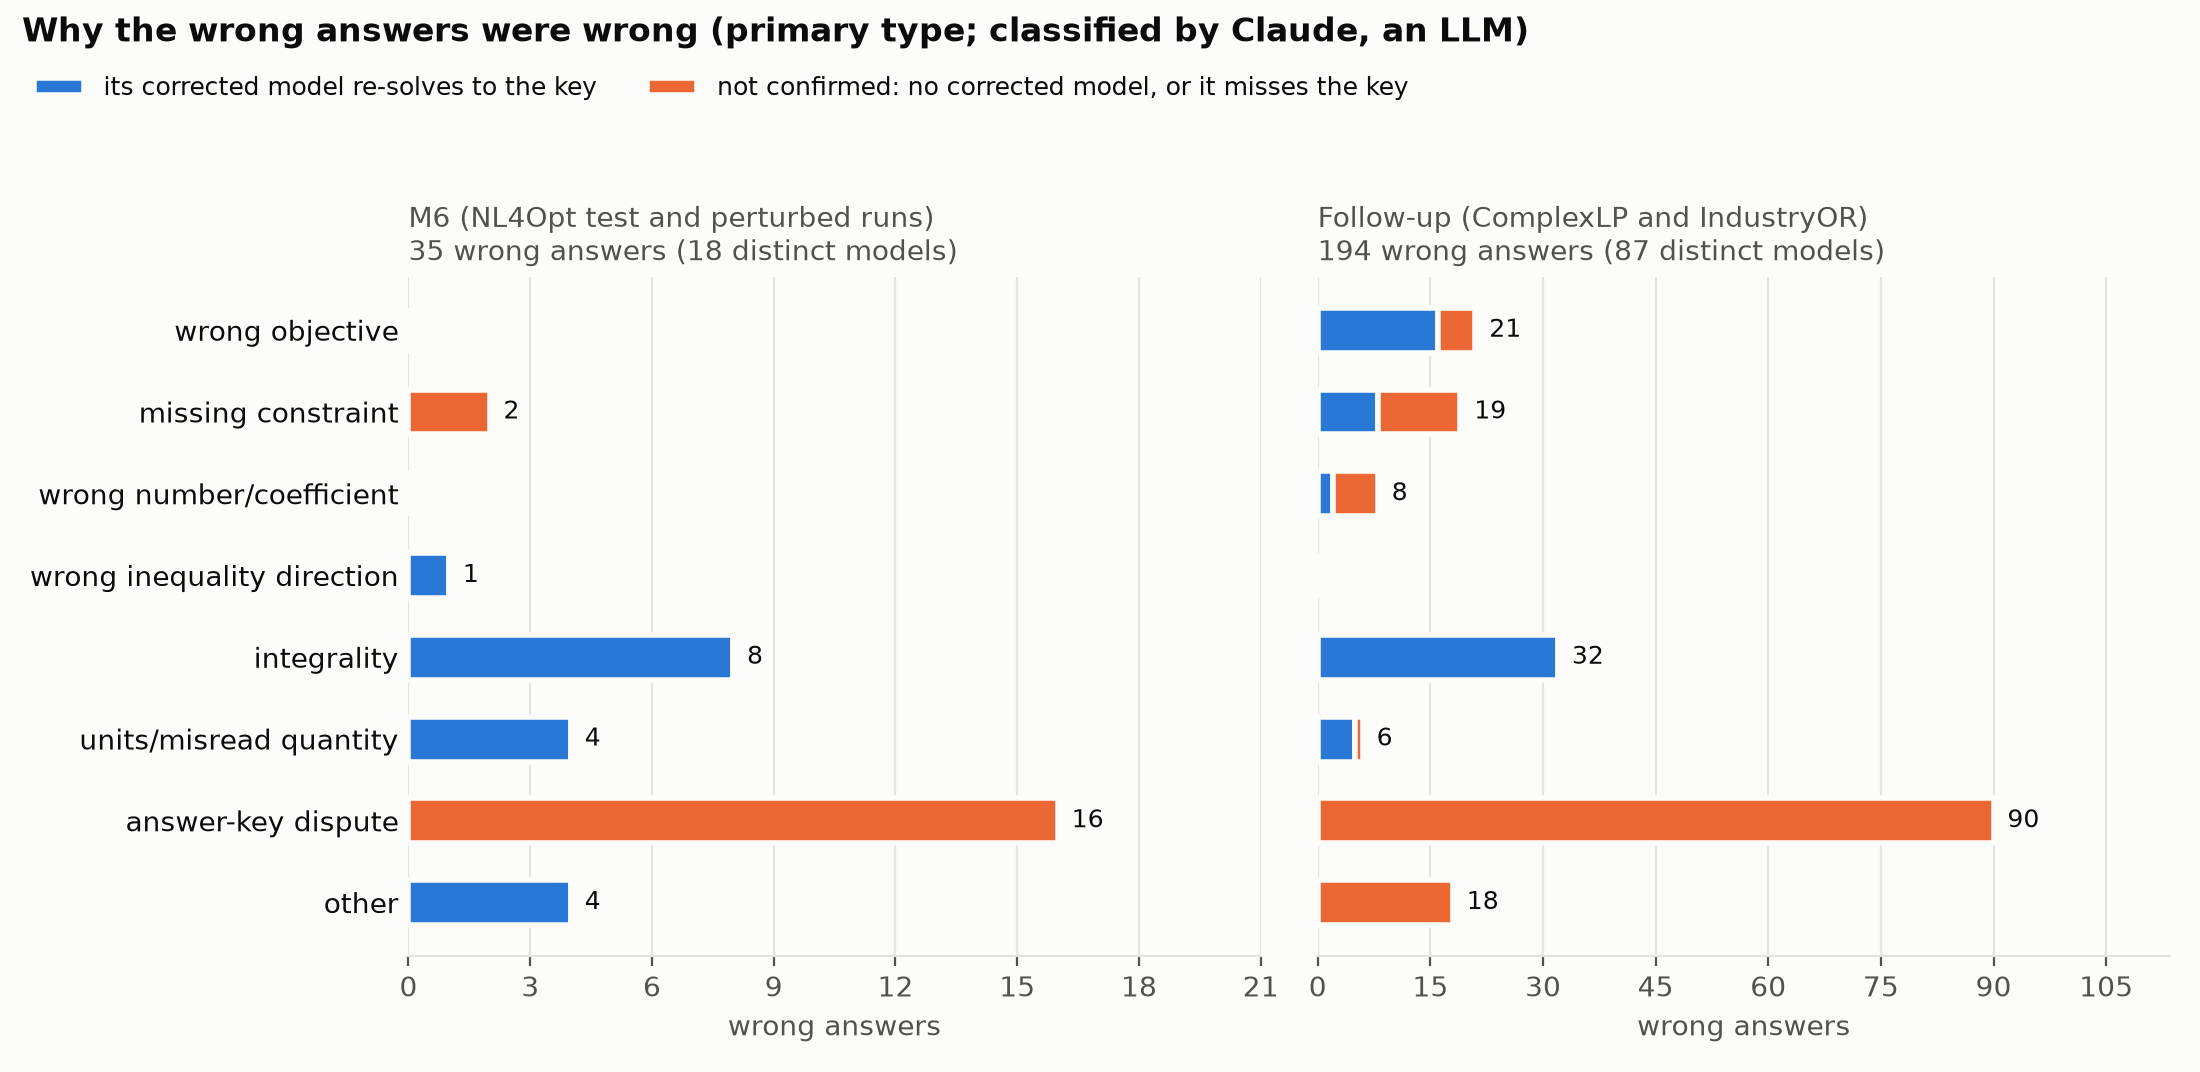
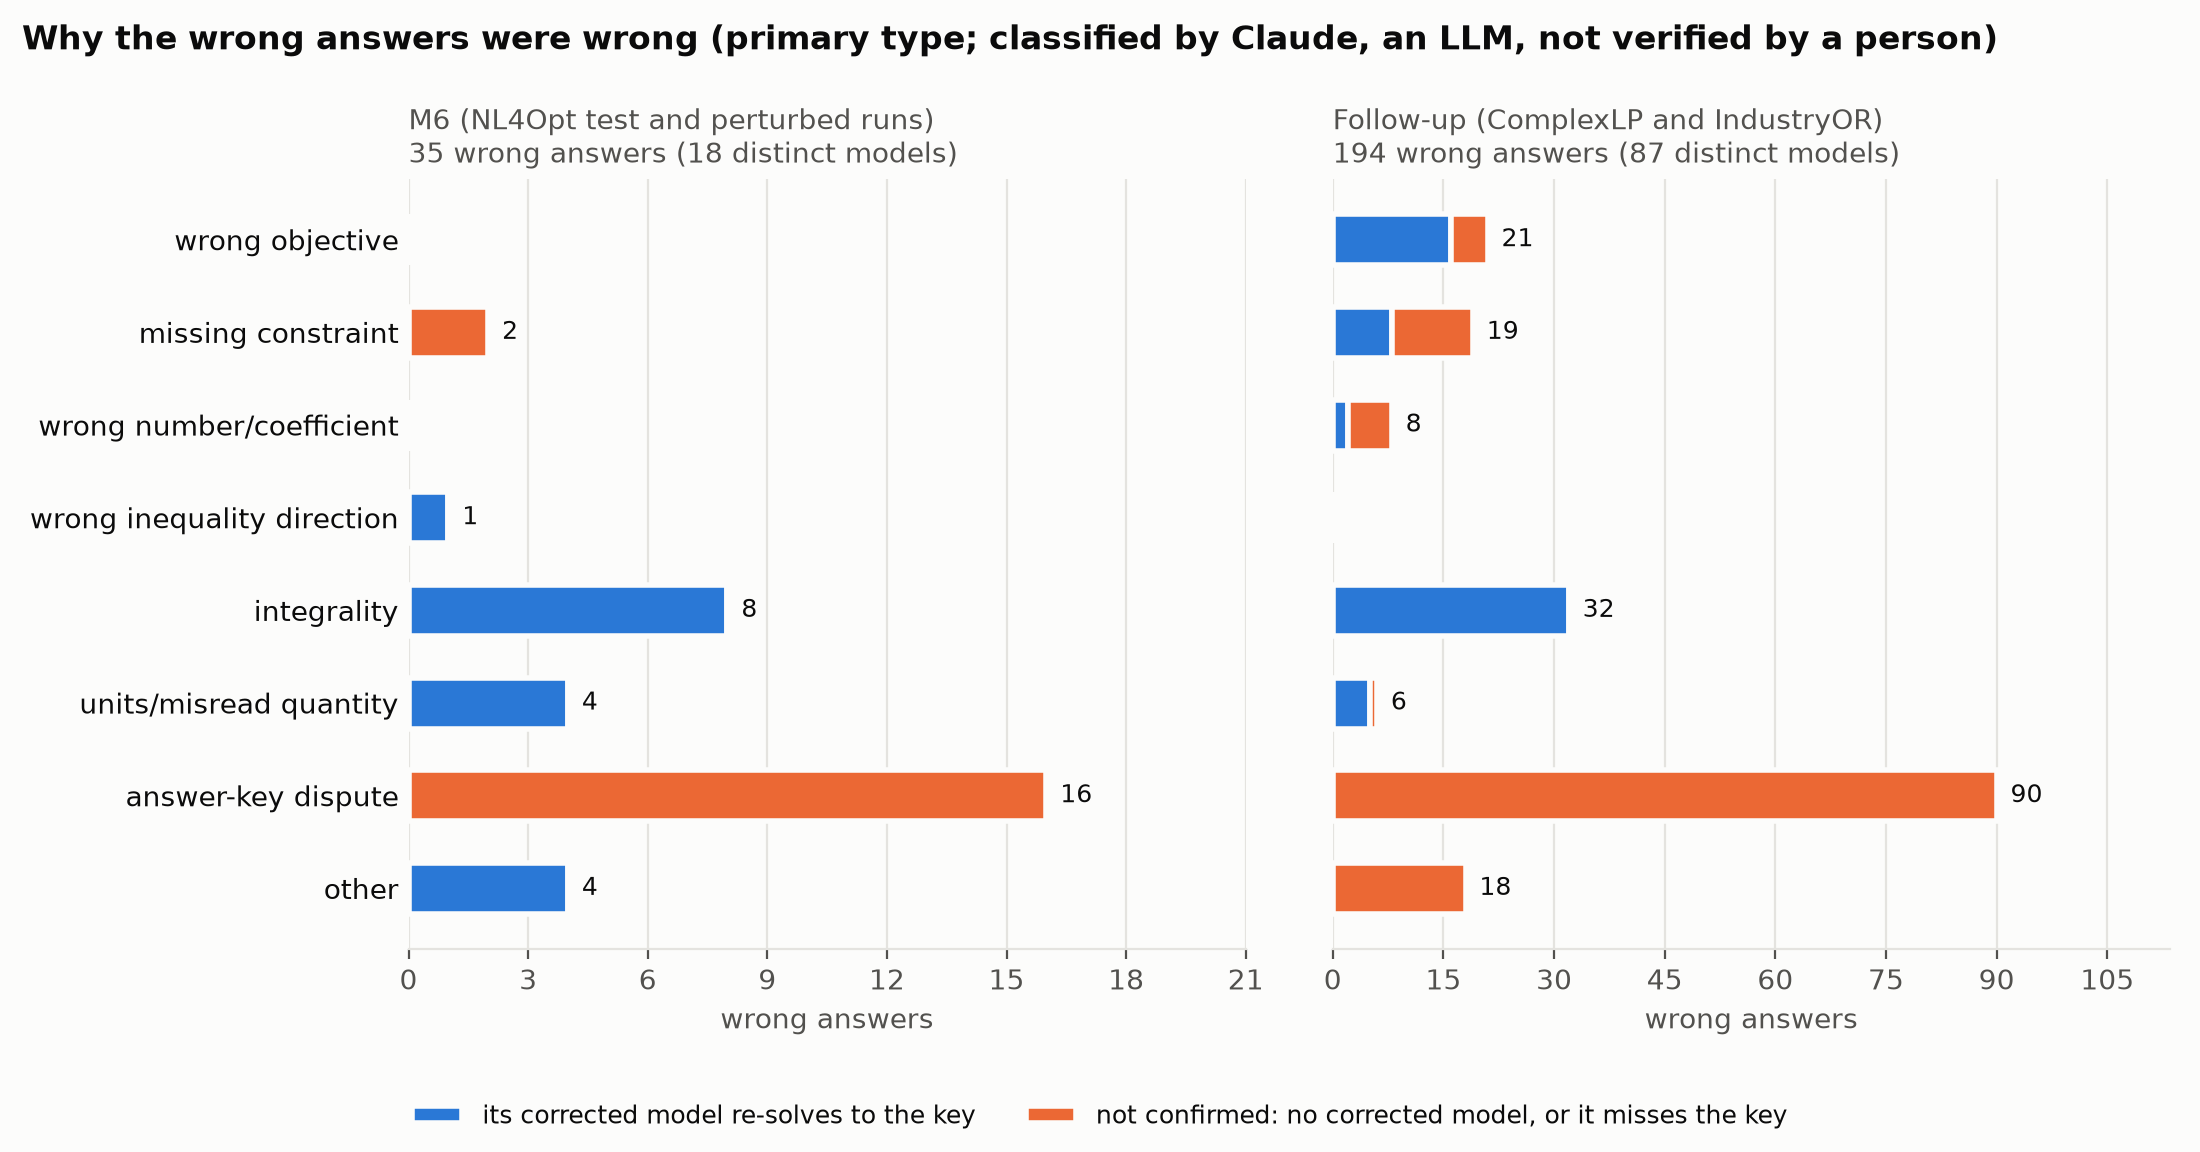
The dispute share as an LLM judge's flag; the figure's legend below the plots
- Wherever the answer-key-dispute share appears (README, docs/EVALUATION.md,
  the IE 2310 summary, docs/analysis/), it now says an LLM judge flagged it,
  not verified by a person, never that the keys are wrong. The failure-type
  results say so next to the shares and point to the spot-check.
- docs/analysis/failure_types.png: constrained layout with margins, the
  legend below the plots, and "not verified by a person" in the title;
  checked that the title, both subtitles and the legend sit inside the
  figure and clear of each other.
- HANDOFF: item 6 points to the spot-check; a line on today's second list.

diff --git a/scripts/failure_types.py b/scripts/failure_types.py
@@ -394,9 +394,14 @@ def figure(summary: dict) -> None:
         "axes.spines.top": False, "axes.spines.right": False, "axes.spines.left": False,
         "svg.hashsalt": "failure-types", "path.simplify": False,
     })  # fmt: skip
-    fig, axes = plt.subplots(1, 2, figsize=(11, 2.0 + 0.42 * len(TYPES)), sharey=True)
-    title = "Why the wrong answers were wrong (primary type; classified by Claude, an LLM)"
-    fig.suptitle(title, x=0.01, y=0.985, ha="left", fontsize=12, fontweight="bold")
+    # Constrained layout makes room for the title, both panels' subtitles and the legend
+    # whatever the fonts measure, so nothing overlaps on another machine either.
+    fig, axes = plt.subplots(1, 2, figsize=(11, 2.4 + 0.42 * len(TYPES)), sharey=True,
+                             layout="constrained")  # fmt: skip
+    fig.get_layout_engine().set(w_pad=0.15, h_pad=0.12)  # inches of margin all round
+    title = ("Why the wrong answers were wrong (primary type; classified by Claude, an LLM, "
+             "not verified by a person)")  # fmt: skip
+    fig.suptitle(title, x=0.01, ha="left", fontsize=12, fontweight="bold")
     confirmed = "its corrected model re-solves to the key"
     unconfirmed = "not confirmed: no corrected model, or it misses the key"
     for ax, (study, title) in zip(axes, STUDIES.items(), strict=True):
@@ -419,9 +424,9 @@ def figure(summary: dict) -> None:
         ax.set_xlabel("wrong answers")
         ax.set_title(f"{title}\n{s['answers']} wrong answers ({s['models']} distinct models)",
                      fontsize=10, color=MUTED, loc="left")  # fmt: skip
-    fig.tight_layout(rect=(0, 0, 1, 0.9))  # room for the title and, under it, the legend
-    fig.legend(*axes[1].get_legend_handles_labels(), loc="upper left", ncol=2,
-               bbox_to_anchor=(0.005, 0.95), frameon=False, fontsize=9)  # fmt: skip
+    # Below the plots, clear of the title and the subtitles.
+    fig.legend(*axes[1].get_legend_handles_labels(), loc="outside lower center", ncol=2,
+               frameon=False, fontsize=9)  # fmt: skip
     fig.savefig(FIG_OUT, dpi=200, metadata={"Software": None})
     plt.close(fig)
 
@@ -451,6 +456,14 @@ def results_markdown(summary: dict) -> str:
     lines += [f"| **all** | {m6['answers']} | | {fu['answers']} | | {fu['models']} | |", "",
               "\"Found at all\" counts answers whose model has the error as its primary or a "
               "secondary type.", ""]  # fmt: skip
+    d = "answer-key dispute"
+    lines += [f"**The disputes are flags.** An LLM judge (Claude) flagged "
+              f"{pct(m6['primary'][d], m6['answers'])} of M6's wrong answers and "
+              f"{pct(fu['primary'][d], fu['answers'])} of the follow-up's as answer-key "
+              "disputes (it found no error in the model), not verified by a person: where to "
+              "look, not proof that a key is wrong. [`dispute_spotcheck.md`]"
+              "(dispute_spotcheck.md) lists 10 of the follow-up's for a person to check.",
+              ""]  # fmt: skip
     c = summary["checks"]
     lines += [f"**Re-solving.** {c['right']} of {c['fixes']} corrected models re-solve to "
               f"the key ({c['right_on_the_first_check']} on their first check); the rest stay "

diff --git a/scripts/silent_detector_report.py b/scripts/silent_detector_report.py
@@ -82,10 +82,11 @@ def section(result: dict) -> str:
              f"of {p['correct']}), so as a warning it would mostly cry wolf: a right model "
              "needn't carry every number of the text as written (why each flagged right answer "
              "lacks its numbers wasn't checked). Nothing was tuned after the run.", "",
-             "**Post hoc** (after the run, joining [`failure_types.csv`](failure_types.csv); "
-             "not part of the declared report). " + " ".join(by_failure_type(result))
-             + " It can't see an integrality error by design (no number is missing), and an "
-             "answer-key dispute isn't a model error at all.", "", END]  # fmt: skip
+             "**Post hoc** (after the run, joining [`failure_types.csv`](failure_types.csv), "
+             "whose types are Claude's labels, not verified by a person; not part of the "
+             "declared report). " + " ".join(by_failure_type(result))
+             + " It can't see an integrality error by design (no number is missing), and in an "
+             "answer-key dispute Claude found no model error to see.", "", END]  # fmt: skip
     return "\n".join(lines)
 
 

diff --git a/docs/analysis/failure_types.md b/docs/analysis/failure_types.md
@@ -88,6 +88,8 @@ Classified by Claude (an LLM), not a person. 229 wrong answers (105 distinct mod
 
 "Found at all" counts answers whose model has the error as its primary or a secondary type.
 
+**The disputes are flags.** An LLM judge (Claude) flagged 46% of M6's wrong answers and 46% of the follow-up's as answer-key disputes (it found no error in the model), not verified by a person: where to look, not proof that a key is wrong. [`dispute_spotcheck.md`](dispute_spotcheck.md) lists 10 of the follow-up's for a person to check.
+
 **Re-solving.** 41 of 58 corrected models re-solve to the key (41 on their first check); the rest stay unconfirmed (`confirmed` = no in the CSV). Answer-key disputes and loud failures have no corrected model. 76 checks were run in all. 8 corrected models restate a whole instance (over 100 KB, IndustryOR's non-commercial data), so they aren't committed (`fix_committed` = no); their verdicts are.
 
 **By condition** (wrong answers by primary type):
@@ -113,6 +115,7 @@ Classified by Claude (an LLM), not a person. 229 wrong answers (105 distinct mod
 ## One example per type
 
 Each is one distinct model, by problem ID, in the classifier's words (no problem text is quoted).
+The dispute is the classifier's flag, not verified by a person.
 
 | Type | Example | Re-solved to the key |
 |---|---|---|
@@ -127,22 +130,25 @@ Each is one distinct model, by problem ID, in the classifier's words (no problem
 
 ## Reading the results
 
-- **Nearly half of the wrong answers are answer-key disputes**: in each, the classifier found no
-  error in the model. In the follow-up they're 90 answers on 13 problems, and 43 of them come
-  from five routing problems (`complexlp:63`, `78`, `81`, `83`, `94`) whose key is two separate
-  round trips, what a model without subtour elimination finds. Others: keys that are the
+- **An LLM judge (Claude) flagged nearly half of the wrong answers as answer-key disputes, not
+  verified by a person**: in each, it found no error in the model. In the follow-up it flagged
+  90 answers on 13 problems, and 43 of them come from five routing problems (`complexlp:63`,
+  `78`, `81`, `83`, `94`) whose key, by its reading, is two separate round trips, what a model
+  without subtour elimination finds. The other flags: keys that are the
   continuous optimum of a problem in countable units (`industryor:28`, `41`), a key 1000 times
   the model's answer from another reading of the units (`industryor:27`), a text that states no
-  objective (`industryor:24`). In M6 the 16 answers are 8 problem-runs: integer-sensitive
+  objective (`industryor:24`). In M6 the 16 flagged answers are 8 problem-runs: integer-sensitive
   problems the integrality rule labeled continuous (the known bug,
   `docs/amendments/DEVIATIONS.md`, section 3), annotated operators that contradict the
   wording, and one perturbed problem whose new numbers make the text's full-investment reading
   infeasible.
-- **These are an LLM's readings, not verified keys.** The follow-up's pre-registered key-dispute
+- **These are an LLM's flags, not verified keys.** The follow-up's pre-registered key-dispute
   check (5b) wasn't performed (`docs/followup/DEVIATIONS.md`, deviation 2), so the raw keys stay
   the result of record, and nothing here changes a reported accuracy. Where a dispute's
   arithmetic is plain (the routing keys, where the one-tour optimum and the two round trips can
-  be added up by hand), it was checked that way; the rest rest on the classifier's reading.
+  be added up by hand), Claude checked it that way; the rest rest on its reading alone. No
+  person has checked any of them: [`dispute_spotcheck.md`](dispute_spotcheck.md) draws 10 of
+  the follow-up's disputed problems, with a fixed seed, for a person to check.
 - **Of the model errors, integrality is the most common** (mostly diet problems solved with
   fractional servings), then wrong objective (in the follow-up, mostly max-flow objectives that
   count flow leaving the source, including flow that comes back) and missing constraint.

diff --git a/docs/EVALUATION.md b/docs/EVALUATION.md
@@ -22,7 +22,7 @@ and a test checks it.
 | no-solver baseline | 96.4% (93.4–98.0%) | 10 / 0 | 97.1% | $0.124 | 3.8 s / 8.1 s |
 | single-shot | 96.4% (93.4–98.0%) | 10 / 0 | 96.7% | $0.150 | 3.6 s / 6.7 s |
 | self-correction | 96.4% (93.4–98.0%) | 10 / 0 | 97.1% | $0.167 | 3.7 s / 9.5 s |
-| *exploratory, post hoc:* answer-key errors counted as correct | 98.5% (96.3–99.4%) in each | | | | |
+| *exploratory, post hoc:* the failures LLM judges flagged as key errors (not verified by a person) counted as correct | 98.5% (96.3–99.4%) in each | | | | |
 
 **No detectable difference on NL4Opt.** All three conditions got 264 of 274 right. None of
 the 6 pre-registered McNemar tests comes close (every p = 1, with at most 3 discordant
@@ -44,14 +44,15 @@ Lenient scoring accepts the optimum under either integrality (LP or integer), wi
 else changed. It moves both solver conditions to 266 and leaves the baseline at 264. Its
 McNemar tests, exploratory and without Holm, give p = 1 in every comparison too.
 
-**Most shared failures are answer-key errors (exploratory, post hoc).** 8 problems were
-wrong in all three conditions. Two LLM judges labeled each failure on its own, and both
-called 6 of the 8 answer-key errors: a key that is wrong, or that rejects a reading the
-text supports. Counting those 6 as correct gives 98.5% in every condition, which leaves 4
-real failures per condition. This row was added after the results were seen, and it is
+**Two LLM judges flagged most shared failures as answer-key errors, not verified by a
+person (exploratory, post hoc).** 8 problems were wrong in all three conditions. Two LLM
+judges labeled each failure on its own, and both flagged 6 of the 8 as answer-key errors:
+a key that is wrong, or that rejects a reading the text supports. No person has checked
+those flags. Counting those 6 as correct gives 98.5% in every condition, which would leave
+4 failures per condition. This row was added after the results were seen, and it is
 not a pre-registered result.
 
-**The integrality rule's bug (exploratory, post hoc).** 4 of those 6 key errors come from
+**The integrality rule's bug (exploratory, post hoc).** 4 of those 6 flagged keys come from
 one bug: the rule that labels integrality read wording such as "units of chicken meat" as
 continuous, which also switched off the strict reading of "must be larger than" and cost 4
 answers per condition ([deviations](amendments/DEVIATIONS.md), section 3). Relabeling those

diff --git a/docs/HANDOFF.md b/docs/HANDOFF.md
@@ -22,6 +22,11 @@ Read CLAUDE.md first (rules, budget, gotchas). This file is where things stand.
     explanation; `docs/adr/` holds retrospective decision records.
   - The owner's interview notes are in `private/` (git-ignored, never committed).
   - The final review's nice-to-have items are done (item 7).
+  - Later on 2026-11-18 (the owner's second list): the two bugs mypy found are fixed (item 8);
+    the failure-type figure's legend is below the plots; wherever the answer-key-dispute share
+    appears, it says an LLM judge flagged it, not verified by a person; and
+    `docs/analysis/dispute_spotcheck.md` lists 10 disputed follow-up problems (seeded) for a
+    person to check.
 - **M7's demo and M8 are done** (2026-11-15): the demo (`src/opt_agent/demo/`, Docker, CI),
   `scripts/reproduce.py` (every number replayed and rebuilt from the tags, in CI), the
   rewritten README, and the IE 2310 kit (`docs/ie2310/`). The decisions are at the end of
@@ -90,10 +95,11 @@ Read CLAUDE.md first (rules, budget, gotchas). This file is where things stand.
 6. **Optional, exploratory only:** the 5b check could still be run later
    (`review/followup_disputes/README.md`), at the commit its script ran at
    (`scripts/historical/README.md`); anything it found would be post hoc, never the result
-   of record. The failure-type analysis is a reason to: Claude labeled many of the follow-up's
-   wrong answers answer-key disputes, some checkable by arithmetic (the routing keys that are
-   two separate round trips; `docs/analysis/failure_types.md`), and no person has checked
-   those labels.
+   of record. The failure-type analysis is a reason to: an LLM judge (Claude) flagged many of the
+   follow-up's wrong answers as answer-key disputes, not verified by a person, some checkable
+   by arithmetic (the routing keys that are two separate round trips;
+   `docs/analysis/failure_types.md`). `docs/analysis/dispute_spotcheck.md` draws 10 of the
+   disputed problems (seeded) for a person to check first.
 7. **The final review** (2026-11-15): `docs/audit/2026-11-final-review.md`. Its mechanical
    fixes, its must-fix items (M1-M5) and its should-fix items (S1-S11) are done, on the
    owner's go-ahead (2026-11-16), except what only the owner can do (item 2) and what would

diff --git a/docs/analysis/silent_detector.md b/docs/analysis/silent_detector.md
@@ -71,6 +71,6 @@ Run once, at `6ca49db` with no uncommitted changes (2026-11-18T03:36:17+00:00), 
 
 **A weak detector.** 16.3% of these answers are silent failures, so a flag picked at random would be right 16.3% of the time; this one's flags are right 19.6% of the time. It finds about half the silent failures (96 of 186) and flags 41.2% of the right answers (395 of 958), so as a warning it would mostly cry wolf: a right model needn't carry every number of the text as written (why each flagged right answer lacks its numbers wasn't checked). Nothing was tuned after the run.
 
-**Post hoc** (after the run, joining [`failure_types.csv`](failure_types.csv); not part of the declared report). Flagged, of each type's silent failures: answer-key dispute 47 of 90; integrality 0 of 32; wrong objective 13 of 21; missing constraint 16 of 19; other 10 of 10; wrong number/coefficient 7 of 8; units/misread quantity 3 of 6. Of the silent failures with a model error (not a dispute), it flags 49 of 96. It can't see an integrality error by design (no number is missing), and an answer-key dispute isn't a model error at all.
+**Post hoc** (after the run, joining [`failure_types.csv`](failure_types.csv), whose types are Claude's labels, not verified by a person; not part of the declared report). Flagged, of each type's silent failures: answer-key dispute 47 of 90; integrality 0 of 32; wrong objective 13 of 21; missing constraint 16 of 19; other 10 of 10; wrong number/coefficient 7 of 8; units/misread quantity 3 of 6. Of the silent failures with a model error (not a dispute), it flags 49 of 96. It can't see an integrality error by design (no number is missing), and in an answer-key dispute Claude found no model error to see.
 
 <!-- end of results -->

diff --git a/README.md b/README.md
@@ -54,7 +54,8 @@ All three got 264 of 274 right, and none of the 6 pre-registered McNemar tests c
 (every p = 1). The baseline, with no solver at all, matched the solver conditions, so NL4Opt
 is too easy to show what a solver adds. All 10 failures per condition were silent, a wrong
 answer with no warning (in the solver conditions, CBC and HiGHS agreed and every check
-passed), though most of the shared ones may be answer-key errors (see Limitations). Two
+passed), though two LLM judges flagged most of the shared ones as answer-key errors, not
+verified by a person (see Limitations). Two
 other pre-registered rows: lenient scoring (integrality not graded) gives both solver
 conditions 266/274 and the baseline 264/274 (exploratory McNemar tests, every p = 1), and
 leaving out the 8 disputed reviews gives 260/266 in every condition. Full write-up:
@@ -107,7 +108,8 @@ Full write-up: [`docs/followup/RESULTS.md`](docs/followup/RESULTS.md).
   the pre-registered primary test only, and part of it comes from baseline replies that ran
   out of tokens.
 - **The answer keys aren't perfect, and their errors cut both ways.** On NL4Opt, two LLM
-  judges labeled 6 of the 8 shared failures answer-key errors (exploratory, post hoc). Against
+  judges flagged 6 of the 8 shared failures as answer-key errors, not verified by a person
+  (exploratory, post hoc). Against
   LLM4OR's independently cleaned NL4Opt key, every condition scores 185/210 (88.1%) on the
   problems both keys cover, against 205 or 206 of the same 210 on ours, mostly where the two
   keys differ ([Amendment 5](docs/amendments/amendment-5.md), exploratory). In the follow-up,

diff --git a/docs/ie2310/summary.md b/docs/ie2310/summary.md
@@ -96,8 +96,9 @@ real situation, exactly as with a model built by hand.
 - **The benchmarks are public,** so Claude may have seen them while it was trained. On the
   textbook set, changing the problems' numbers didn't lower accuracy, which argues against
   memorized answers; the harder set had no such check.
-- **The answer keys contain errors, both ways.** Some of the "failures" above may be key
-  errors rather than the agent's. And against a second, independently cleaned answer key for
+- **The answer keys may contain errors, both ways.** AI judges (large language models)
+  flagged some of the "failures" above as answer-key errors rather than the agent's, not
+  verified by a person. And against a second, independently cleaned answer key for
   the textbook set, every method scored lower, mostly on problems where the two keys
   disagree.
 - **All of the grading was done by AI judges, not people.** Every "hand check" (grading the
